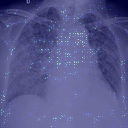
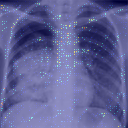
20/04

diff --git a/templates/frontend/src/app/lib/openai.ts b/templates/frontend/src/app/lib/openai.ts
@@ -19,7 +19,7 @@ export async function generateModelText(model_text: string) {
                 {
                     // giving gpt the model_text to generate the explainations
                     role: 'user',
-                    content: `we have a ${model_text} algorithm generated image for tuberulosis chest x-ray. Write the technical explainations for results generated by the this model in 3 short points with each point having 10 words only.`
+                    content: `we have a ${model_text} algorithm generated image for tuberulosis chest x-ray. Write the technical explainations for results generated by the this model in 3 short points with each point having 10 words only also tell that theae are the regions highlighted by the LIME explainer whivh helps in determining the model the influentioal partrs.`
                 }
             ] 
         })

diff --git a/new.py b/new.py
@@ -351,7 +351,7 @@ def process_image(file_path, filename):
     
     # Prediction
     prediction = model.predict(np.expand_dims(img_array, axis=0))
-    result = "Tuberculosis" if prediction[0] >= 0.8 else "Normal"
+    result = "Tuberculosis" if prediction[0] >= 0.7 else "Normal"
 
     # Generate Histogram
     hist, bins = generate_histogram(img_array)
